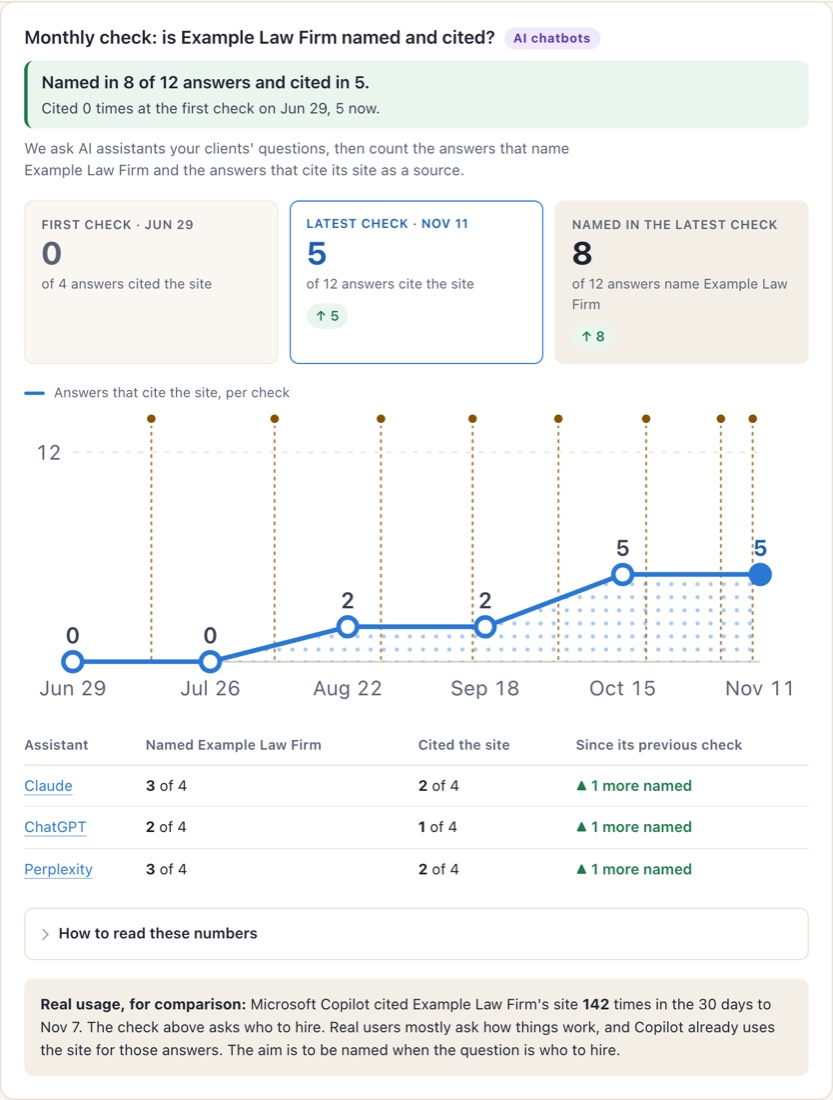
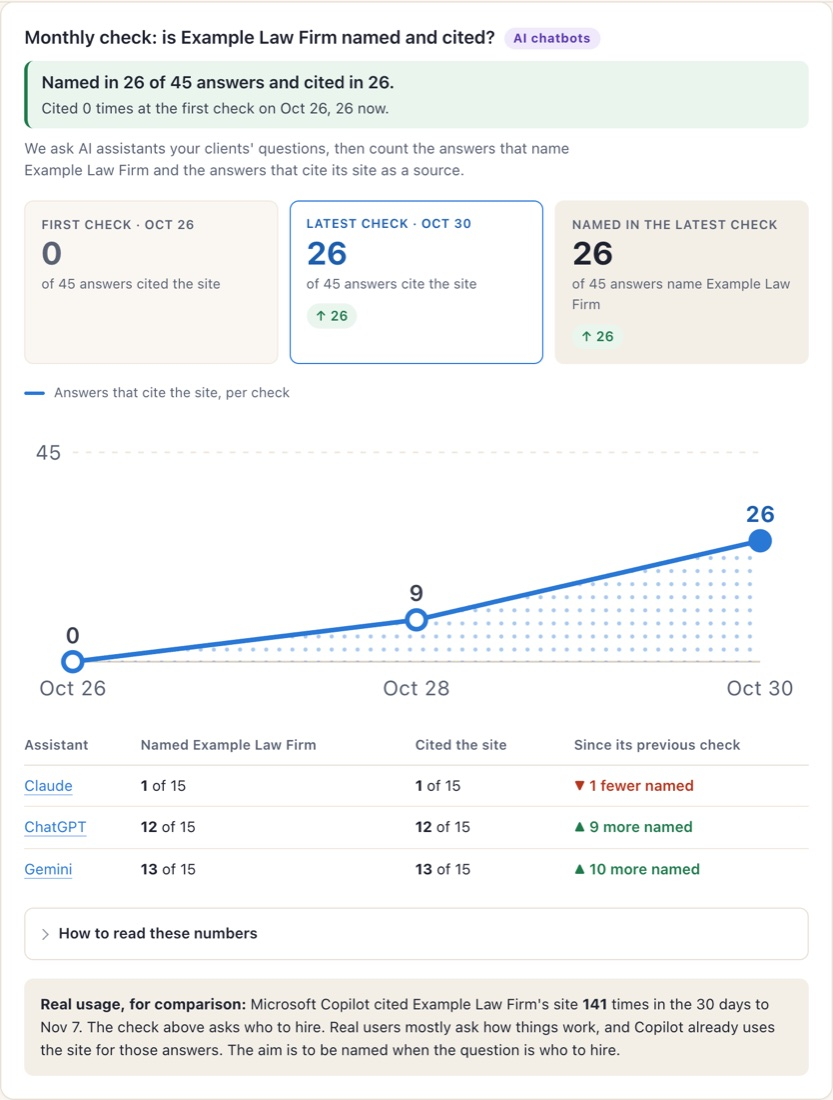
Homepage engine card: real check results (0 to 26 of 45), fictional company name
Claude-Session: https://claude.ai/code/session_01Xw6qwDoa1RgdJ2gqcAdbdJ

diff --git a/scripts/v2/bodies/en/home.html b/scripts/v2/bodies/en/home.html
@@ -130,8 +130,8 @@ ld: [{"@type":"FAQPage","mainEntity":[{"@type":"Question","name":"What does Ship
       </div>
       <figure class="shot rv" style="max-width:540px;justify-self:center">
         <div class="bar" aria-hidden="true"><i></i><i></i><i></i><span>Monthly check</span></div>
-        <img src="/assets/v2/img/engine-monthly-en.jpg" width="833" height="1100" alt="Ship to Live AI Visibility Engine monthly check: how often AI answers name and cite the site over time (demo data, fictional company)" loading="lazy">
-        <figcaption>Real system screen (demo data)</figcaption>
+        <img src="/assets/v2/img/engine-monthly-en.jpg" width="833" height="1100" alt="Ship to Live AI Visibility Engine monthly check: AI answers citing a client site went from 0 to 26 of 45 in four days (real client results, name changed)" loading="lazy">
+        <figcaption>Real system screen (real client results, name hidden)</figcaption>
       </figure>
     </div>
     <div class="cta-box rv">

diff --git a/index.html b/index.html
@@ -268,8 +268,8 @@
       </div>
       <figure class="shot rv" style="max-width:540px;justify-self:center">
         <div class="bar" aria-hidden="true"><i></i><i></i><i></i><span>每月檢測</span></div>
-        <img src="/assets/v2/img/engine-monthly.jpg" width="833" height="1100" alt="夏裕 AI 曝光引擎每月檢測：AI 回答提到與引用網站的次數變化（示範資料，公司名稱為虛構）" loading="lazy">
-        <figcaption>實際系統畫面（示範資料）</figcaption>
+        <img src="/assets/v2/img/engine-monthly.jpg" width="833" height="1100" alt="夏裕 AI 曝光引擎每月檢測：45 則 AI 回答中，引用客戶網站的次數 4 天內從 0 增加到 26（真實客戶數據，名稱已改為範例）" loading="lazy">
+        <figcaption>實際系統畫面（真實客戶數據，名稱已隱藏）</figcaption>
       </figure>
     </div>
     <div class="cta-box rv">

diff --git a/en/index.html b/en/index.html
@@ -268,8 +268,8 @@
       </div>
       <figure class="shot rv" style="max-width:540px;justify-self:center">
         <div class="bar" aria-hidden="true"><i></i><i></i><i></i><span>Monthly check</span></div>
-        <img src="/assets/v2/img/engine-monthly-en.jpg" width="833" height="1100" alt="Ship to Live AI Visibility Engine monthly check: how often AI answers name and cite the site over time (demo data, fictional company)" loading="lazy">
-        <figcaption>Real system screen (demo data)</figcaption>
+        <img src="/assets/v2/img/engine-monthly-en.jpg" width="833" height="1100" alt="Ship to Live AI Visibility Engine monthly check: AI answers citing a client site went from 0 to 26 of 45 in four days (real client results, name changed)" loading="lazy">
+        <figcaption>Real system screen (real client results, name hidden)</figcaption>
       </figure>
     </div>
     <div class="cta-box rv">
